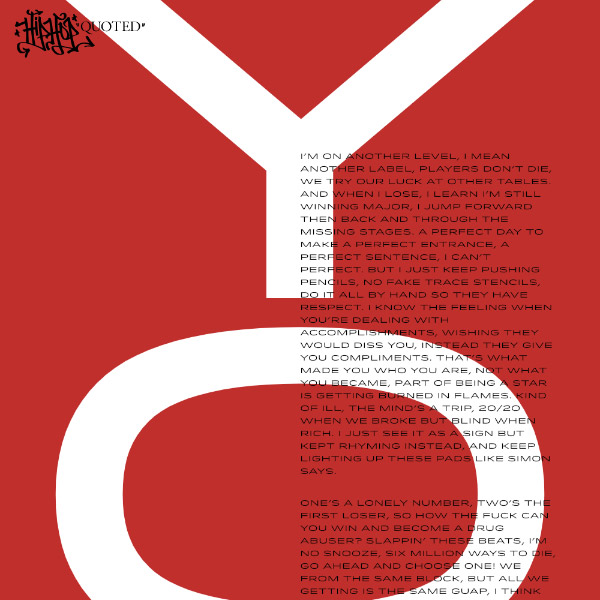
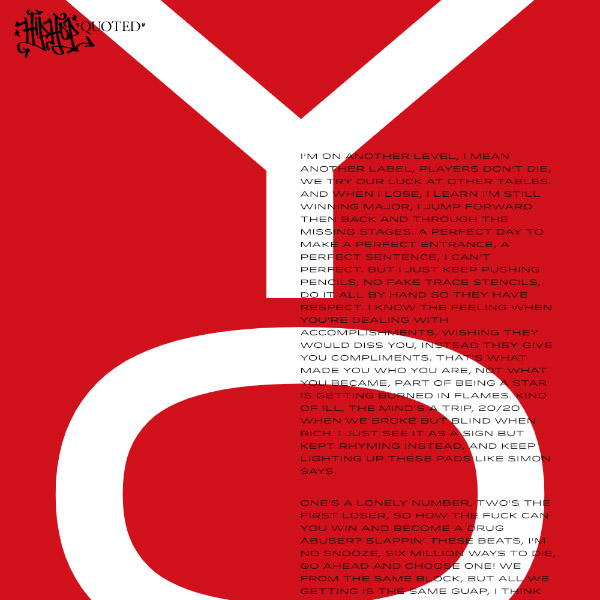
update punctuation and add print download

diff --git a/source/stylesheets/evidence-you.css.scss b/source/stylesheets/evidence-you.css.scss
@@ -2,7 +2,7 @@
 
 @import "partials/common";
 
-$primary-color: #C0302D;
+$primary-color: #d1111c;
 $secondary-color: #000000;
 
 @include loader(#ffffff);
